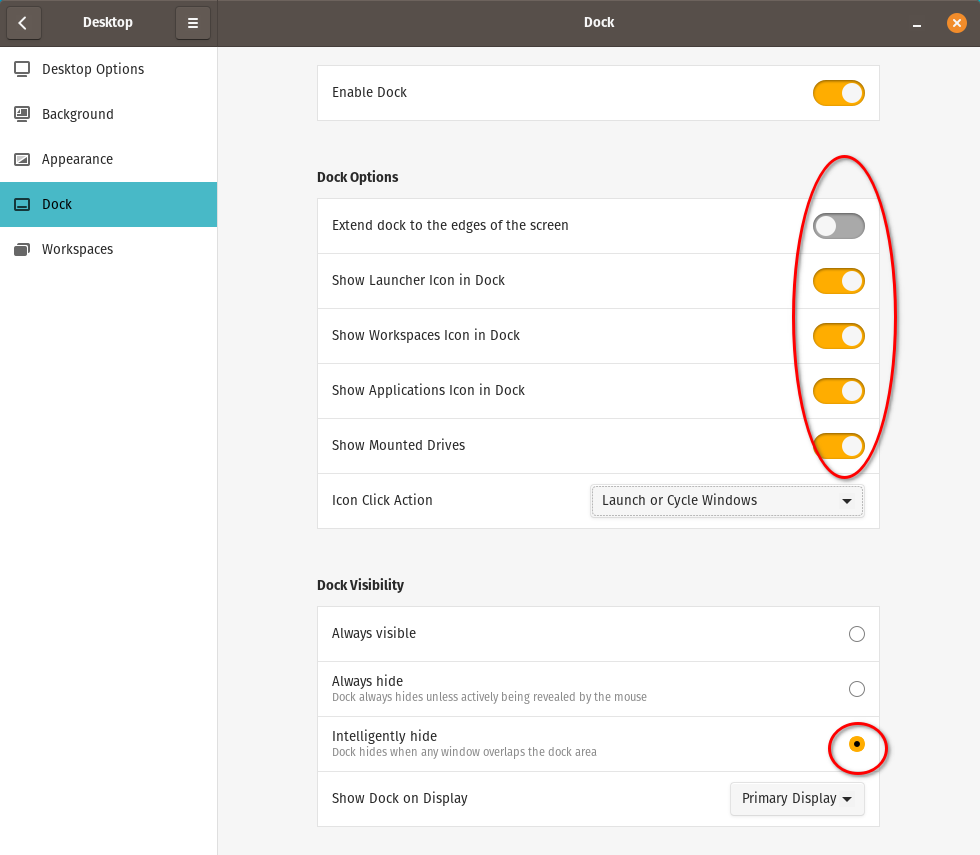
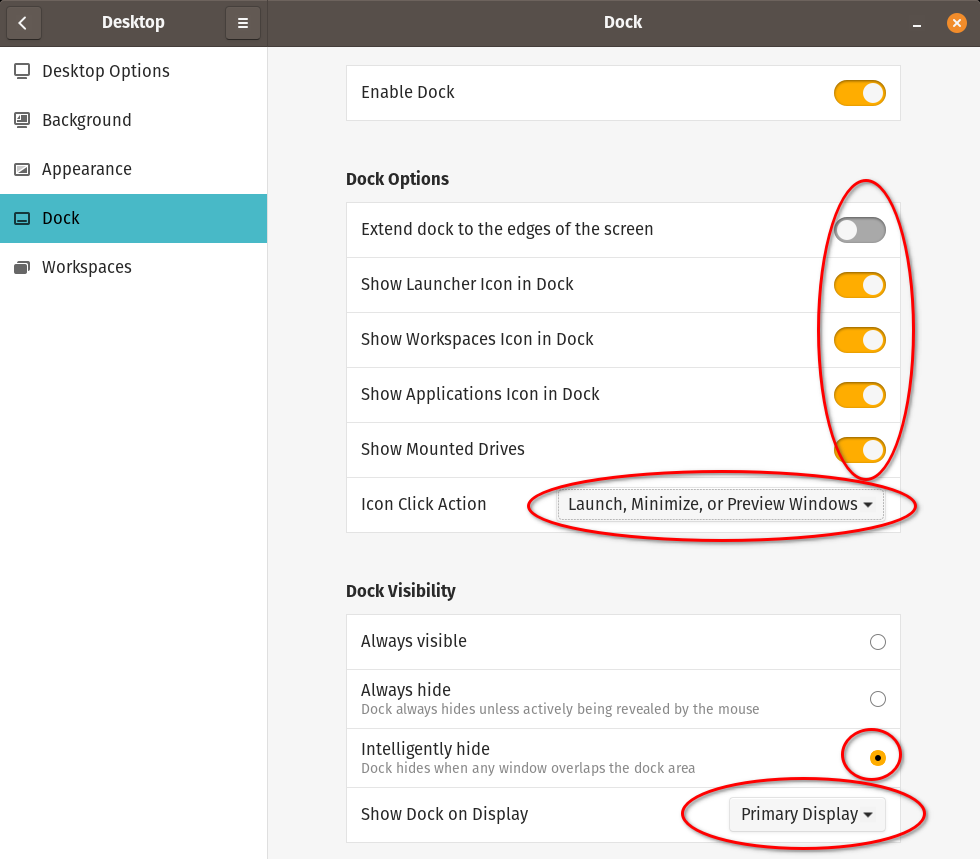
corrijo opciones del Cosmic Dock

diff --git a/Linux/ConfigurarLinuxDesktopBaby.md b/Linux/ConfigurarLinuxDesktopBaby.md
@@ -35,8 +35,8 @@ fondo
 * En **Settings** &rarr; **Desktop** &rarr; **Appearance** elegir **_Light_**
 
 ![Desktop/Appearence](img/pop-settings-desktop-appearance.png)
-* En **Settings** &rarr; **Desktop** &rarr; **Dock** en **Dock Options** elegir 
-**_Intelligently hide_**
+* En **Settings** &rarr; **Desktop** &rarr; **Dock** configurar las siguientes
+opciones:
 
 ![Desktop/Dock](img/pop-settings-desktop-dock_1.png)
 
